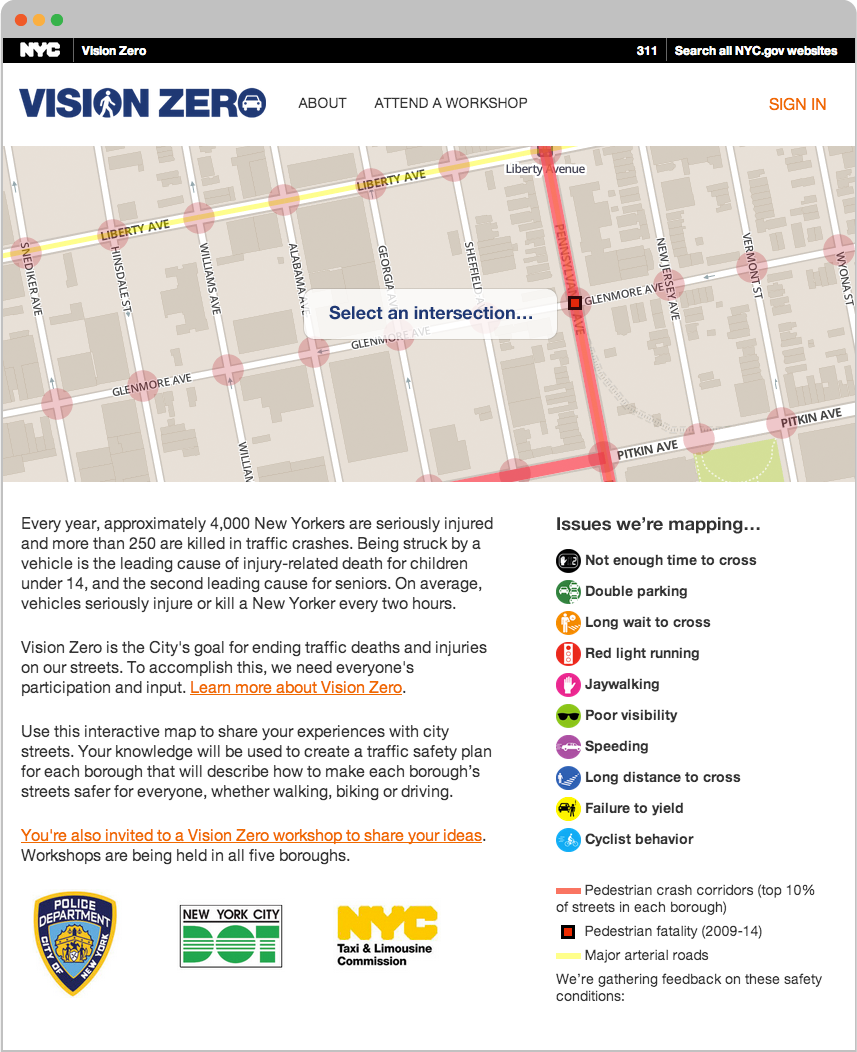
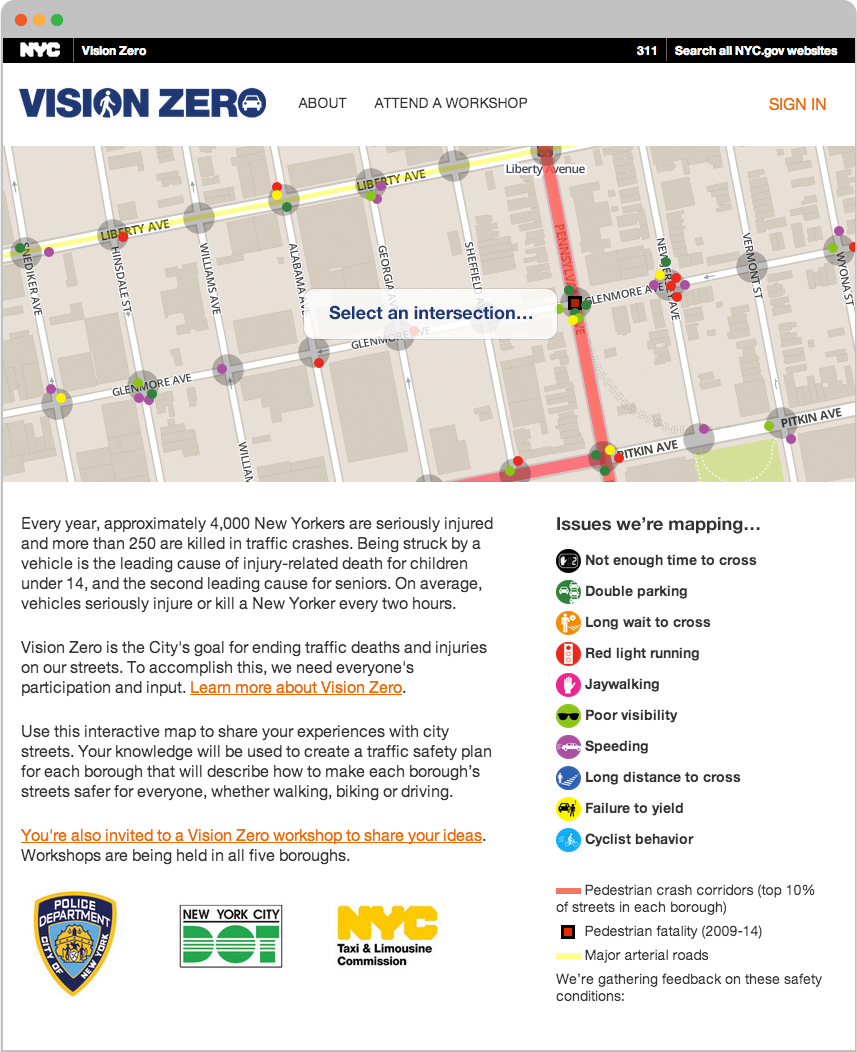
add half-zoom and issues on neighborhood zoom

diff --git a/mockups/half-zoom.html b/mockups/half-zoom.html
@@ -15,6 +15,6 @@
     </style>
   </head>
   <body>
-    <a href="half-zoom.html"><img src="images/zoom-to-neighborhood.png"></a>
+    <a href="select-an-intersection.html"><img src="images/half-zoom.png"></a>
   </body>
 </html>
